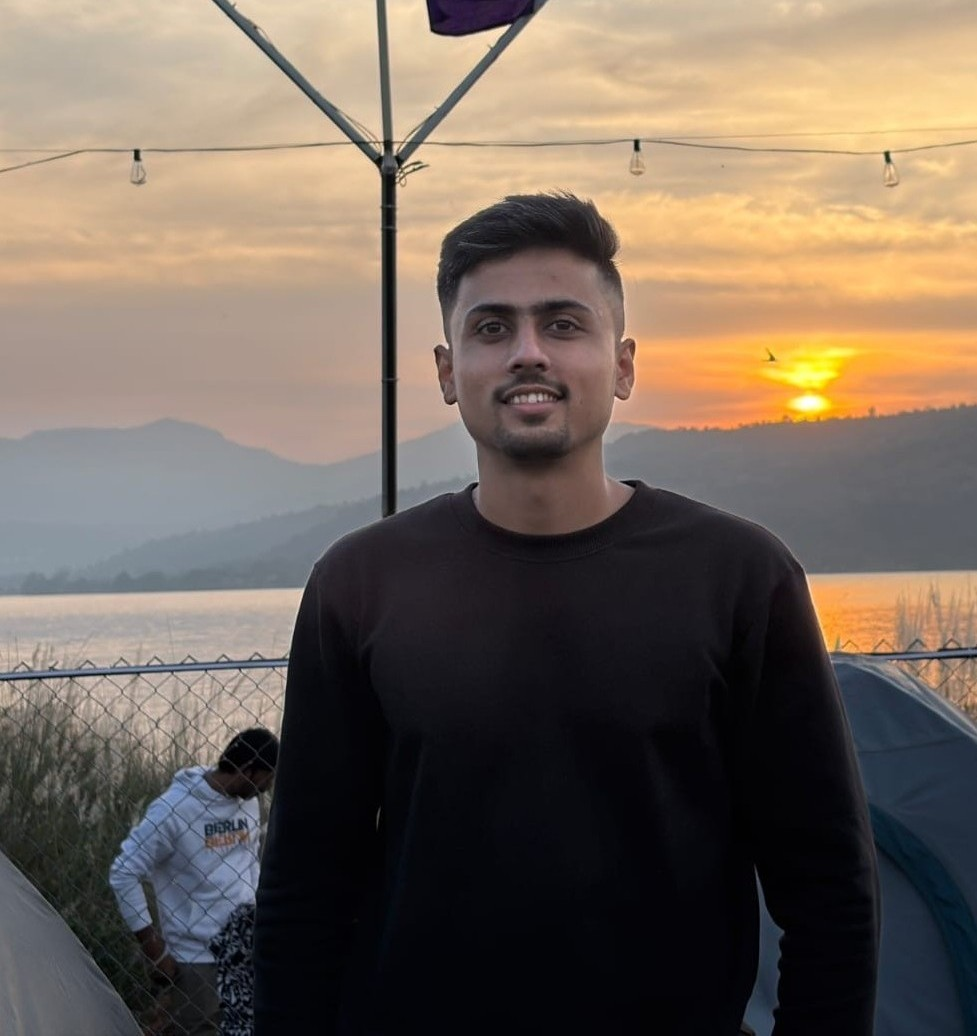
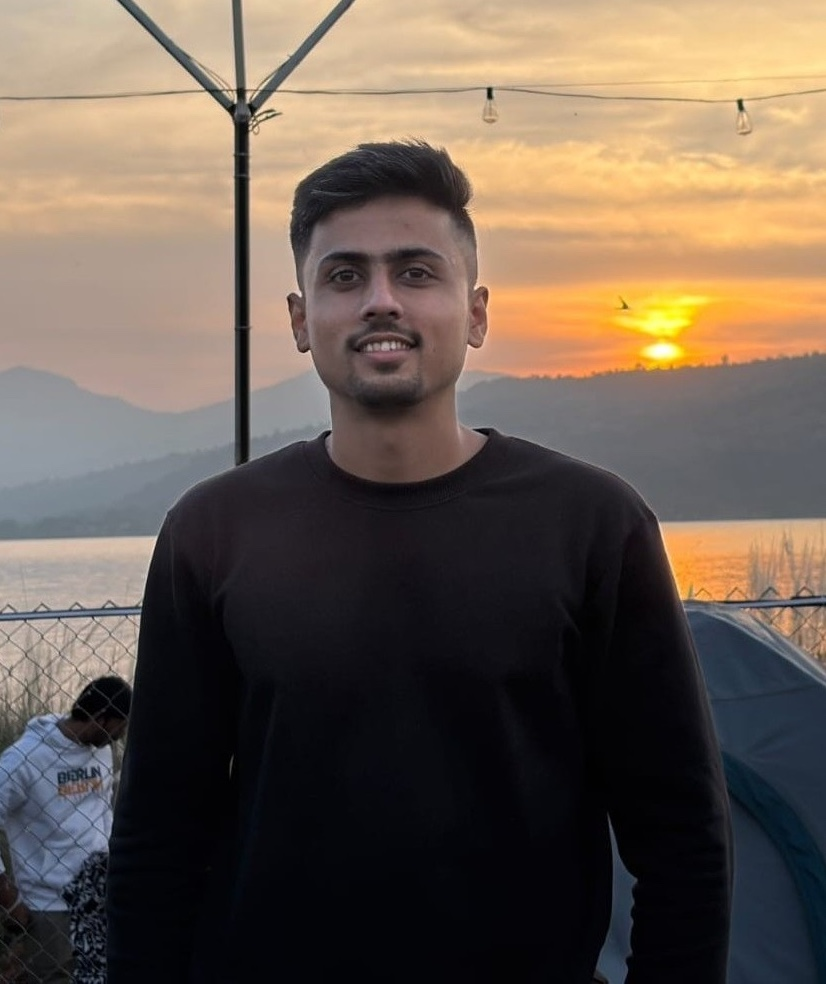
refactor: redesign hero section and update portfolio typography and layout

diff --git a/src/components/sections/Main.tsx b/src/components/sections/Main.tsx
@@ -3,6 +3,7 @@ import {
   Github,
   Award,
   FileText,
+  ArrowRight,
 } from "lucide-react";
 
 export default function Main({ darkMode, setDarkMode }) {
@@ -11,151 +12,124 @@ export default function Main({ darkMode, setDarkMode }) {
   };
 
   return (
-    <main className="w-full max-w-6xl mx-auto px-4 sm:px-6 py-12">
-      <section className="mb-16 sm:mb-20 relative">
+    <main className="w-full max-w-6xl mx-auto px-4 sm:px-6 pt-6 sm:pt-10 md:pt-14 pb-12 sm:pb-16">
+      {/* Hero Section */}
+      <section className="mb-24 sm:mb-32 relative">
         <div
-          className="flex flex-col lg:flex-row gap-10 lg:gap-14 items-center"
+          className="flex flex-col md:flex-row items-center justify-center relative max-w-5xl mx-auto"
           style={{
             opacity: 1,
             transform: "translateY(0px)",
             transition: "all 0.8s ease-out",
           }}
         >
-          {/* Left Column - Profile Image & Social Links */}
+          {/* Left - Portrait Image without border */}
           <div
-            className="w-full lg:w-2/5 flex flex-col items-center"
+            className="relative shrink-0 w-[260px] sm:w-[300px] md:w-[340px] lg:w-[360px] h-[360px] sm:h-[430px] md:h-[470px] lg:h-[500px] overflow-hidden"
             style={{
               opacity: 1,
               transform: "translateX(0px)",
               transition: "all 0.6s ease-out",
             }}
           >
-            {/* Profile Image with clean professional frame */}
-            <div className="relative mb-6 w-48 h-48 sm:w-56 sm:h-56">
-              <div
-                className={`w-full h-full rounded-2xl overflow-hidden border ${darkMode ? "border-gray-800 bg-gray-900" : "border-gray-200 bg-gray-100"
-                  } shadow-sm`}
-              >
-                <img
-                  src="/images/my_image_1.png"
-                  alt="Adinath Yadav"
-                  className="w-full h-full object-cover object-top"
-                />
-              </div>
-            </div>
-
-            <div className="text-center mb-6 sm:mb-8">
-              <span
-                className={`text-xs sm:text-sm ${darkMode ? "text-gray-400" : "text-gray-500"
-                  } font-medium block mb-1.5 tracking-wider uppercase`}
-              >
-                Hello, I am
-              </span>
-
-              <h1
-                className={`text-2xl sm:text-3xl lg:text-4xl font-semibold my-1.5 tracking-tight ${darkMode ? "text-white" : "text-gray-900"
-                  }`}
-              >
-                Adinath Yadav
-              </h1>
-
-              <div
-                className={`px-3 py-1 mt-1.5 ${darkMode
-                  ? "bg-gray-800/80 border border-gray-700/80 text-gray-300"
-                  : "bg-gray-100 border border-gray-200 text-gray-700"
-                  } rounded-md inline-block`}
-              >
-                <span className="text-xs font-medium tracking-wide">
-                  B.Tech. in Information Technology
-                </span>
-              </div>
-            </div>
-
-            {/* Social Media Links */}
-            <div className="flex items-center gap-2.5">
-              <button
-                onClick={() => openInNewTab("https://github.com/adinathyadav2002")}
-                className={`p-2 rounded-lg border transition-colors ${darkMode
-                  ? "border-gray-800 bg-gray-900 text-gray-400 hover:text-white hover:bg-gray-800"
-                  : "border-gray-200 bg-white text-gray-600 hover:text-black hover:bg-gray-100"
-                  }`}
-                aria-label="GitHub Profile"
-              >
-                <Github size={16} />
-              </button>
-              <button
-                onClick={() => openInNewTab("https://linkedin.com/in/adinath-yadav")}
-                className={`p-2 rounded-lg border transition-colors ${darkMode
-                  ? "border-gray-800 bg-gray-900 text-gray-400 hover:text-white hover:bg-gray-800"
-                  : "border-gray-200 bg-white text-gray-600 hover:text-black hover:bg-gray-100"
-                  }`}
-                aria-label="LinkedIn Profile"
-              >
-                <Linkedin size={16} />
-              </button>
-            </div>
+            <img
+              src="/images/my_image_1.jpeg"
+              alt="Adinath Yadav"
+              className="w-full h-full object-cover object-top"
+            />
           </div>
 
-          {/* Right Column - About Me */}
+          {/* Right - Name overlapping image & Bio */}
           <div
-            className="w-full lg:w-3/5"
+            className="relative -mt-8 md:mt-0 z-10 flex flex-col justify-center pt-4 md:pt-0 w-full md:w-auto"
             style={{
               opacity: 1,
               transform: "translateX(0px)",
               transition: "all 0.6s ease-out 0.2s",
             }}
           >
-            <div
-              className={`${darkMode
-                ? "bg-gray-900/90 border-gray-800"
-                : "bg-white border-gray-200"
-                } rounded-xl shadow-sm overflow-hidden border`}
-            >
-              <div className="p-6 sm:p-7">
-                <h2
-                  className={`text-lg sm:text-xl font-semibold mb-4 tracking-tight ${darkMode ? "text-gray-100" : "text-gray-900"
-                    }`}
+            {/* ONLY the Name overlaps the Image */}
+            <div className="relative md:-ml-20 lg:-ml-28 mb-8 md:mb-12">
+              <h1
+                className={`font-display text-4xl sm:text-5xl md:text-6xl lg:text-7xl font-normal tracking-tight leading-[1.08] ${
+                  darkMode ? "text-white" : "text-gray-900"
+                }`}
+              >
+                Adinath
+                <span className="block mt-1">
+                  Yadav
+                </span>
+              </h1>
+            </div>
+
+            {/* Other parts - on the right, NOT on the image */}
+            <div className="md:pl-6 lg:pl-10 flex flex-col">
+              {/* Circular Arrow + Bio Paragraph */}
+              <div className="flex items-center gap-5 sm:gap-6">
+                <a
+                  href="#projects"
+                  aria-label="Explore Projects"
+                  className={`w-14 h-14 sm:w-16 sm:h-16 rounded-full border ${
+                    darkMode
+                      ? "border-gray-500/80 hover:border-white bg-white/10 hover:bg-white/20 text-white shadow-[0_0_20px_rgba(255,255,255,0.06)]"
+                      : "border-gray-400 hover:border-gray-900 bg-black/5 hover:bg-black/10 text-gray-900 shadow-[0_0_20px_rgba(0,0,0,0.06)]"
+                  } backdrop-blur-md flex items-center justify-center shrink-0 transition-all duration-300 hover:scale-105 group shadow-sm`}
                 >
-                  About Me
-                </h2>
+                  <ArrowRight
+                    size={22}
+                    strokeWidth={1.8}
+                    className="transition-transform group-hover:translate-x-1"
+                  />
+                </a>
 
-                <div className="space-y-3.5 text-sm sm:text-base leading-relaxed font-normal">
-                  <p className={darkMode ? "text-gray-300" : "text-gray-600"}>
-                    I'm an Information Technology student who enjoys building full-stack
-                    web apps and digging into systems and real-time communication. I spend
-                    much of my time coding in TypeScript, experimenting with WebSockets & WebRTC,
-                    and practicing data structures and algorithms.
-                  </p>
-                  <p className={darkMode ? "text-gray-300" : "text-gray-600"}>
-                    Whether it's building a real-time chat service, optimizing database
-                    queries, or competing in programming contests, I value writing readable,
-                    reliable code and shipping tools people can actually use.
-                  </p>
-                </div>
+                <p
+                  className={`text-xs sm:text-sm md:text-[15px] leading-relaxed font-normal max-w-xs sm:max-w-sm md:max-w-md ${
+                    darkMode ? "text-gray-300" : "text-gray-600"
+                  }`}
+                >
+                  Adinath is a skilled developer with expertise in modern web technologies and a passion for creating seamless user experiences.
+                </p>
+              </div>
 
-                <div className="flex flex-wrap items-center gap-3 mt-6 pt-4 border-t border-gray-100 dark:border-gray-800">
-                  <a
-                    href="./Adinath_Yadav_resume.pdf"
-                    target="_blank"
-                    rel="noopener noreferrer"
-                    className={`inline-flex items-center justify-center gap-2 py-2 px-4 ${darkMode
-                      ? "bg-gray-100 text-gray-900 hover:bg-white"
+              {/* Elegant Action Buttons */}
+              <div className="flex flex-wrap items-center gap-3 mt-8 sm:mt-10">
+                <a
+                  href="./Adinath_Yadav_resume.pdf"
+                  target="_blank"
+                  rel="noopener noreferrer"
+                  className={`inline-flex items-center gap-2 py-2 px-4 sm:py-2.5 sm:px-5 rounded-full text-xs sm:text-sm font-medium transition-all duration-200 shadow-sm hover:shadow-md hover:-translate-y-0.5 ${
+                    darkMode
+                      ? "bg-white text-gray-900 hover:bg-gray-100"
                       : "bg-gray-900 text-white hover:bg-gray-800"
-                      } rounded-lg text-xs sm:text-sm font-medium transition-colors shadow-sm`}
-                  >
-                    <FileText size={15} />
-                    <span>View Resume</span>
-                  </a>
+                  }`}
+                >
+                  <FileText size={15} />
+                  <span>View Resume</span>
+                </a>
 
-                  <a
-                    href="#projects"
-                    className={`inline-flex items-center gap-1.5 py-2 px-3 text-xs sm:text-sm font-medium ${darkMode ? "text-gray-400 hover:text-white" : "text-gray-600 hover:text-gray-900"
-                      } transition-colors`}
-                  >
-                    <span>Explore projects</span>
-                    <span aria-hidden="true">↓</span>
-                  </a>
-                </div>
+                <button
+                  onClick={() => openInNewTab("https://github.com/adinathyadav2002")}
+                  className={`inline-flex items-center gap-2 py-2 px-3.5 sm:py-2.5 sm:px-4 rounded-full text-xs sm:text-sm font-medium border transition-all duration-200 hover:-translate-y-0.5 shadow-sm ${
+                    darkMode
+                      ? "border-gray-700/80 bg-gray-900/60 hover:bg-gray-800 text-gray-200 hover:text-white hover:border-gray-500"
+                      : "border-gray-300 bg-white hover:bg-gray-50 text-gray-700 hover:text-gray-900 hover:border-gray-400"
+                  }`}
+                >
+                  <Github size={15} />
+                  <span>GitHub</span>
+                </button>
+
+                <button
+                  onClick={() => openInNewTab("https://linkedin.com/in/adinath-yadav")}
+                  className={`inline-flex items-center gap-2 py-2 px-3.5 sm:py-2.5 sm:px-4 rounded-full text-xs sm:text-sm font-medium border transition-all duration-200 hover:-translate-y-0.5 shadow-sm ${
+                    darkMode
+                      ? "border-gray-700/80 bg-gray-900/60 hover:bg-gray-800 text-gray-200 hover:text-white hover:border-gray-500"
+                      : "border-gray-300 bg-white hover:bg-gray-50 text-gray-700 hover:text-gray-900 hover:border-gray-400"
+                  }`}
+                >
+                  <Linkedin size={15} />
+                  <span>LinkedIn</span>
+                </button>
               </div>
             </div>
           </div>
@@ -164,7 +138,7 @@ export default function Main({ darkMode, setDarkMode }) {
 
       {/* Achievements Section */}
       <section
-        className="mb-16 sm:mb-20 px-0"
+        className="px-0"
         style={{
           opacity: 1,
           transform: "translateY(0px)",

diff --git a/src/components/sections/Projects.tsx b/src/components/sections/Projects.tsx
@@ -76,11 +76,11 @@ const ProjectsSection = ({ darkMode, setDarkMode }) => {
   return (
     <div
       className={`${darkMode ? "text-gray-200" : "text-gray-800"
-        } min-h-screen transition-colors duration-300`}
+        } transition-colors duration-300`}
     >
       {/* Hero Section */}
       <section
-        className={`relative pt-20 ${darkMode ? "bg-transparent" : "bg-indigo-50/50"
+        className={`relative pt-10 sm:pt-14 ${darkMode ? "bg-transparent" : "bg-indigo-50/50"
           }`}
       >
         <div className="max-w-6xl mx-auto px-4 sm:px-6">
@@ -88,7 +88,7 @@ const ProjectsSection = ({ darkMode, setDarkMode }) => {
             initial={{ opacity: 0, y: -20 }}
             animate={{ opacity: 1, y: 0 }}
             transition={{ duration: 0.7 }}
-            className="text-center mb-12"
+            className="text-center mb-8 sm:mb-10"
           >
             <h1
               className={`text-3xl md:text-4xl font-semibold tracking-tight mb-3 ${darkMode ? "text-white" : "text-gray-900"
@@ -108,9 +108,9 @@ const ProjectsSection = ({ darkMode, setDarkMode }) => {
       </section>
 
       {/* Projects Display */}
-      <section className="md:py-0 py-10 px-4 md:mt-0 relative z-10 mt-2">
+      <section className="pb-10 sm:pb-14 px-4 relative z-10">
         <div className="w-full max-w-6xl mx-auto px-4 sm:px-6">
-          <div className="space-y-16">
+          <div className="space-y-12 sm:space-y-14">
             {projects.map((project, index) => {
               const isEven = index % 2 === 0;
 

diff --git a/src/pages/Index.tsx b/src/pages/Index.tsx
@@ -20,7 +20,7 @@ export const Index = () => {
 
   return (
     <div
-      className={`min-h-screen font-montserrat relative ${darkMode ? "dark bg-gray-900 text-gray-100" : "bg-gray-50 text-gray-900"
+      className={`min-h-screen font-sans relative ${darkMode ? "dark bg-gray-900 text-gray-100" : "bg-gray-50 text-gray-900"
         }`}
     >
       {/* Header */}
@@ -28,22 +28,24 @@ export const Index = () => {
         <Navbar darkMode={darkMode} setDarkMode={setDarkMode} />
       </div>
 
-      <div className="w-full flex flex-col items-center">
+      <div className="w-full flex flex-col items-center space-y-24 md:space-y-36">
         {/* Main Content */}
-        <div className="w-full mt-16">
+        <div className="w-full pt-20 sm:pt-24 md:pt-28">
           <Main darkMode={darkMode} setDarkMode={setDarkMode} />
         </div>
 
         {/* Projects */}
-        <div className="w-full mt-16" id="projects">
+        <div className="w-full" id="projects">
           <ProjectsSection darkMode={darkMode} setDarkMode={setDarkMode} />
         </div>
 
-        <div className="w-full mt-16 mb-24" id="certificates">
+        {/* Certificates */}
+        <div className="w-full" id="certificates">
           <CertificatesSection darkMode={darkMode} />
         </div>
 
-        <div className="w-full mt-16 mb-24" id="achievements">
+        {/* Achievements */}
+        <div className="w-full pb-16 md:pb-24" id="achievements">
           <TimelineAchivements darkMode={darkMode} />
         </div>
       </div>

diff --git a/src/components/ui/timeline.tsx b/src/components/ui/timeline.tsx
@@ -40,7 +40,7 @@ export const Timeline = ({
 
   return (
     <div className={`w-full font-sans md:px-10`} ref={containerRef}>
-      <div className="max-w-6xl mx-auto py-8 px-4 md:px-8 lg:px-10">
+      <div className="max-w-6xl mx-auto pt-8 pb-4 px-4 md:px-8 lg:px-10">
         <h2 className="text-xl md:text-2xl font-semibold mb-2 text-black dark:text-white max-w-4xl tracking-tight">
           My Achievements
         </h2>
@@ -54,7 +54,7 @@ export const Timeline = ({
         {data.map((item, index) => (
           <div
             key={index}
-            className="flex justify-start pt-8 md:pt-32 md:gap-8"
+            className="flex justify-start pt-6 md:pt-14 md:gap-8"
           >
             <div className="sticky flex flex-col md:flex-row z-40 items-center top-40 self-start max-w-xs lg:max-w-sm md:w-full">
               <div className="h-8 absolute left-3 md:left-3 w-8 rounded-full bg-white dark:bg-black flex items-center justify-center border border-gray-200 dark:border-gray-800">

diff --git a/src/components/sections/CertificatesSection.tsx b/src/components/sections/CertificatesSection.tsx
@@ -262,10 +262,10 @@ const CertificatesSection = ({ darkMode }) => {
     <div
       className={`${
         darkMode ? "text-gray-200" : "text-gray-800"
-      } min-h-screen transition-colors duration-200`}
+      } transition-colors duration-200`}
     >
       {/* Header Section */}
-      <section className="relative pt-16 pb-8 border-b border-gray-200 dark:border-gray-800/80">
+      <section className="relative pt-10 sm:pt-14 pb-6 sm:pb-8 border-b border-gray-200 dark:border-gray-800/80">
         <div className="max-w-6xl mx-auto px-4 sm:px-6">
           <motion.div
             initial={{ opacity: 0, y: -10 }}
@@ -293,7 +293,7 @@ const CertificatesSection = ({ darkMode }) => {
       </section>
 
       {/* Certificates Display - Main Carousel */}
-      <section className="py-12 px-4 relative z-10">
+      <section className="py-8 sm:py-10 px-4 relative z-10">
         <div className="w-full max-w-6xl mx-auto relative z-10">
           {/* Featured Certificate */}
           <div

diff --git a/index.html b/index.html
@@ -8,7 +8,7 @@
   <meta name="description" content="Adinath Yadav - Full Stack Developer Portfolio" />
   <link rel="preconnect" href="https://fonts.googleapis.com">
   <link rel="preconnect" href="https://fonts.gstatic.com" crossorigin>
-  <link href="https://fonts.googleapis.com/css2?family=Inter:wght@300;400;500;600;700&display=swap" rel="stylesheet">
+  <link href="https://fonts.googleapis.com/css2?family=Outfit:wght@300;400;500;600;700;800;900&family=Plus+Jakarta+Sans:ital,wght@0,300;0,400;0,500;0,600;0,700;1,400&display=swap" rel="stylesheet">
 </head>
 
 <body>

diff --git a/tailwind.config.ts b/tailwind.config.ts
@@ -20,7 +20,8 @@ export default {
     },
     extend: {
       fontFamily: {
-        sans: ['Inter', 'sans-serif'],
+        sans: ['"Plus Jakarta Sans"', 'Inter', 'sans-serif'],
+        display: ['"Outfit"', 'sans-serif'],
       },
       colors: {
         border: "hsl(var(--border))",
